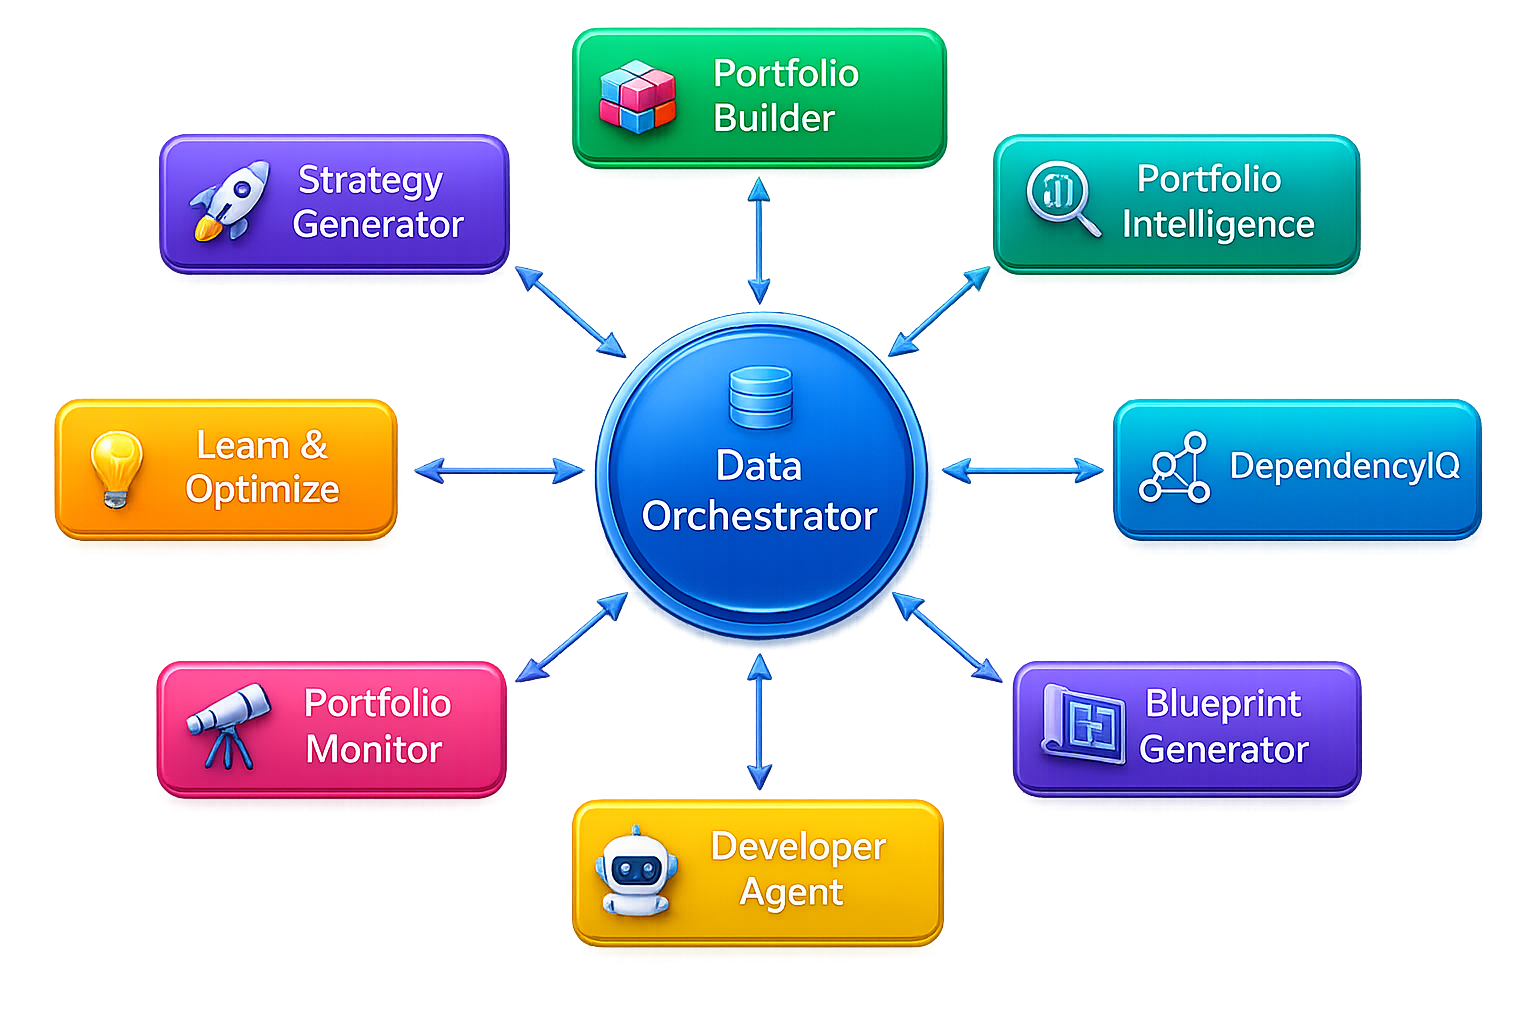
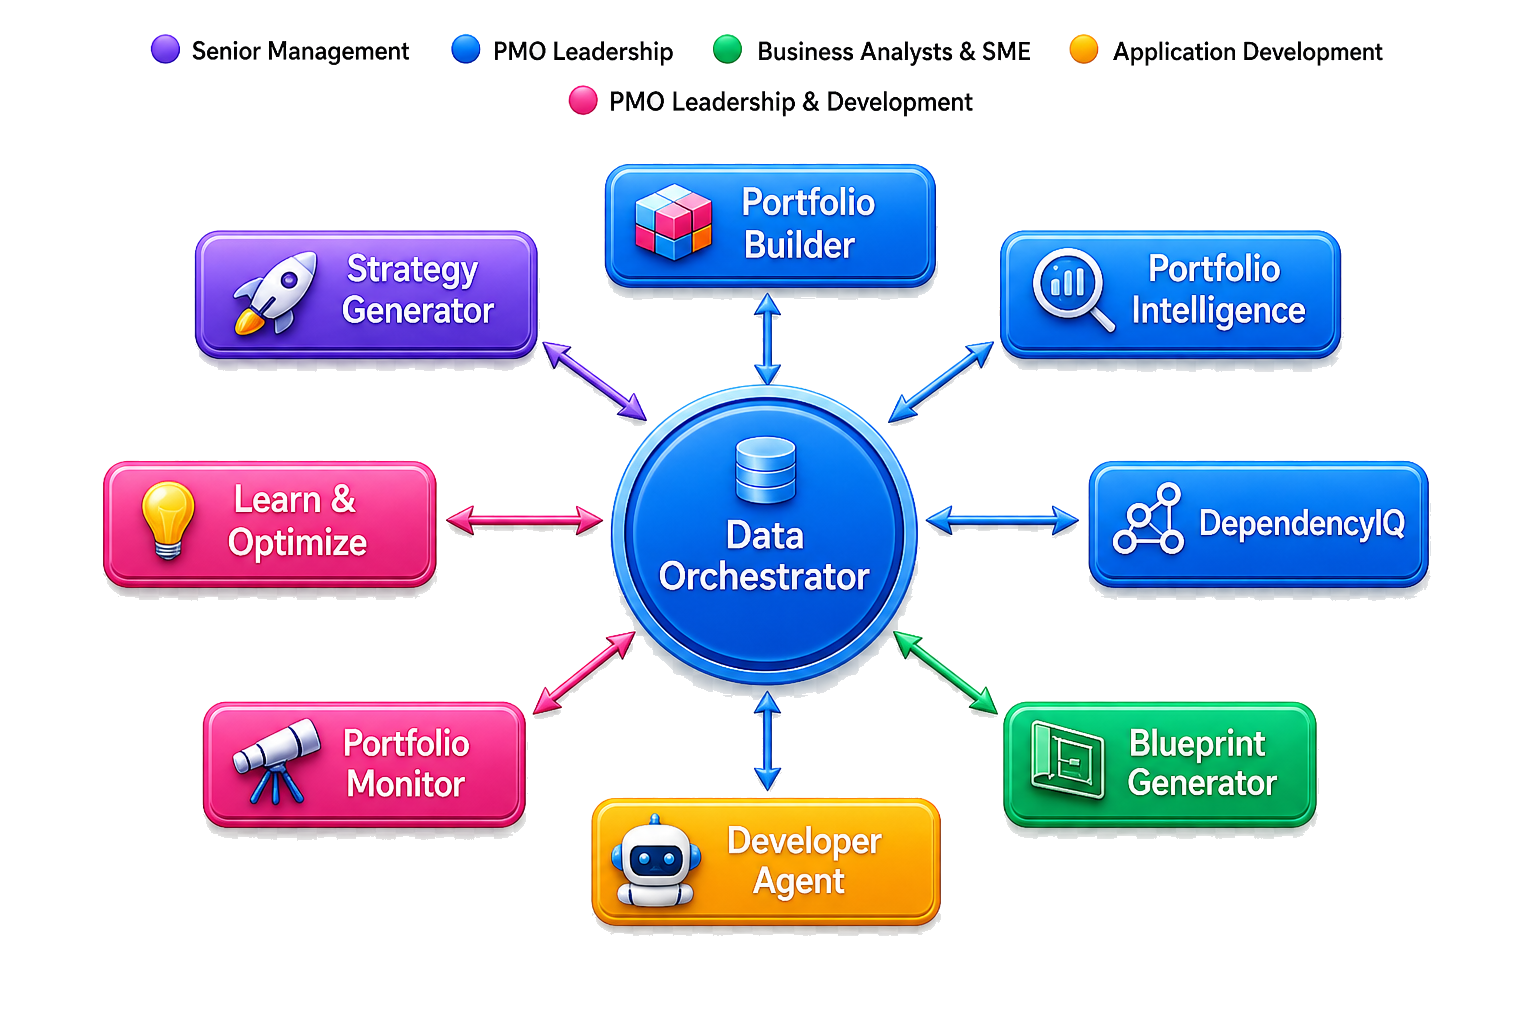
Update suite diagram transparency, hotspot coordinates, and copy
- Removed baked-in checkerboard background from portfolio-suite-diagram.png using flood-fill; image now renders with true alpha transparency against the page background
- Recalculated all 9 hotspot coordinates from actual pixel positions in the new 1536x1024 image layout
- Changed "tools" to "products" in suite architecture description
- Added hover hint line directing users to the PDF download for full details

diff --git a/lab.html b/lab.html
@@ -956,10 +956,13 @@
       <div class="section-inner">
         <div class="section-label">Suite Architecture</div>
         <h2 style="color:var(--white);margin-bottom:12px;">How the Suite Fits Together</h2>
-        <p style="max-width:600px;margin-bottom:40px;">
+        <p style="max-width:600px;margin-bottom:16px;">
           The Data Orchestrator sits at the center of the suite. Every data movement, every
-          ingest, and every export flows through it. The surrounding tools each handle a distinct
+          ingest, and every export flows through it. The surrounding products each handle a distinct
           function while remaining connected through this shared data layer.
+        </p>
+        <p style="max-width:600px;margin-bottom:40px;font-size:0.85rem;color:var(--muted);">
+          Hover over any product to see its core capabilities. For the full picture, download the Suite Overview below.
         </p>
 
         <div class="diagram-section">
@@ -967,39 +970,39 @@
             <img src="img/portfolio-suite-diagram.png" alt="XLeratorAI Portfolio and Development Suite — hub and spoke diagram" draggable="false" />
 
             <div class="hs" data-tool="strategy"
-              style="left:1%;top:2%;width:28%;height:23%;"
+              style="left:1.4%;top:9%;width:27%;height:35.6%;"
               onmouseenter="showTip(event,'strategy')" onmouseleave="hideTip()" onmousemove="moveTip(event)"></div>
 
             <div class="hs" data-tool="builder"
-              style="left:34%;top:0%;width:32%;height:22%;"
+              style="left:30.7%;top:3.1%;width:29.6%;height:26.9%;"
               onmouseenter="showTip(event,'builder')" onmouseleave="hideTip()" onmousemove="moveTip(event)"></div>
 
             <div class="hs" data-tool="intelligence"
-              style="left:65%;top:2%;width:33%;height:23%;"
+              style="left:62.6%;top:9%;width:31.6%;height:33.7%;"
               onmouseenter="showTip(event,'intelligence')" onmouseleave="hideTip()" onmousemove="moveTip(event)"></div>
 
             <div class="hs" data-tool="dependency"
-              style="left:73%;top:37%;width:27%;height:24%;"
+              style="left:68.5%;top:32.4%;width:29.6%;height:30.8%;"
               onmouseenter="showTip(event,'dependency')" onmouseleave="hideTip()" onmousemove="moveTip(event)"></div>
 
             <div class="hs" data-tool="blueprint"
-              style="left:64%;top:68%;width:34%;height:29%;"
+              style="left:61.3%;top:55.9%;width:34.8%;height:34.7%;"
               onmouseenter="showTip(event,'blueprint')" onmouseleave="hideTip()" onmousemove="moveTip(event)"></div>
 
             <div class="hs" data-tool="devagent"
-              style="left:34%;top:77%;width:32%;height:22%;"
+              style="left:31.4%;top:65.6%;width:33.5%;height:31.7%;"
               onmouseenter="showTip(event,'devagent')" onmouseleave="hideTip()" onmousemove="moveTip(event)"></div>
 
             <div class="hs" data-tool="monitor"
-              style="left:1%;top:68%;width:28%;height:29%;"
+              style="left:1.4%;top:55.9%;width:32.2%;height:34.7%;"
               onmouseenter="showTip(event,'monitor')" onmouseleave="hideTip()" onmousemove="moveTip(event)"></div>
 
             <div class="hs" data-tool="learn"
-              style="left:0%;top:37%;width:27%;height:24%;"
+              style="left:1.4%;top:30.5%;width:30.3%;height:33.7%;"
               onmouseenter="showTip(event,'learn')" onmouseleave="hideTip()" onmousemove="moveTip(event)"></div>
 
             <div class="hs" data-tool="hub"
-              style="left:36%;top:37%;width:28%;height:26%;"
+              style="left:34%;top:34.4%;width:28.3%;height:32.7%;"
               onmouseenter="showTip(event,'hub')" onmouseleave="hideTip()" onmousemove="moveTip(event)"></div>
           </div>
         </div>
